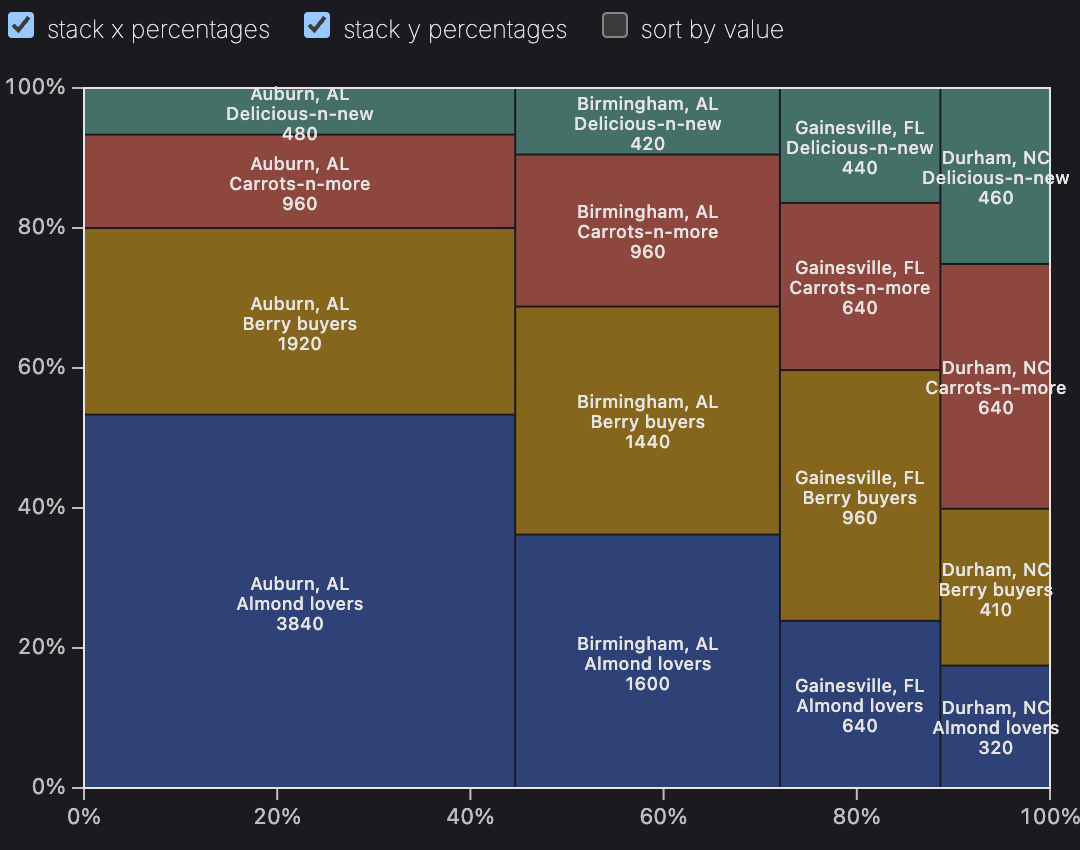
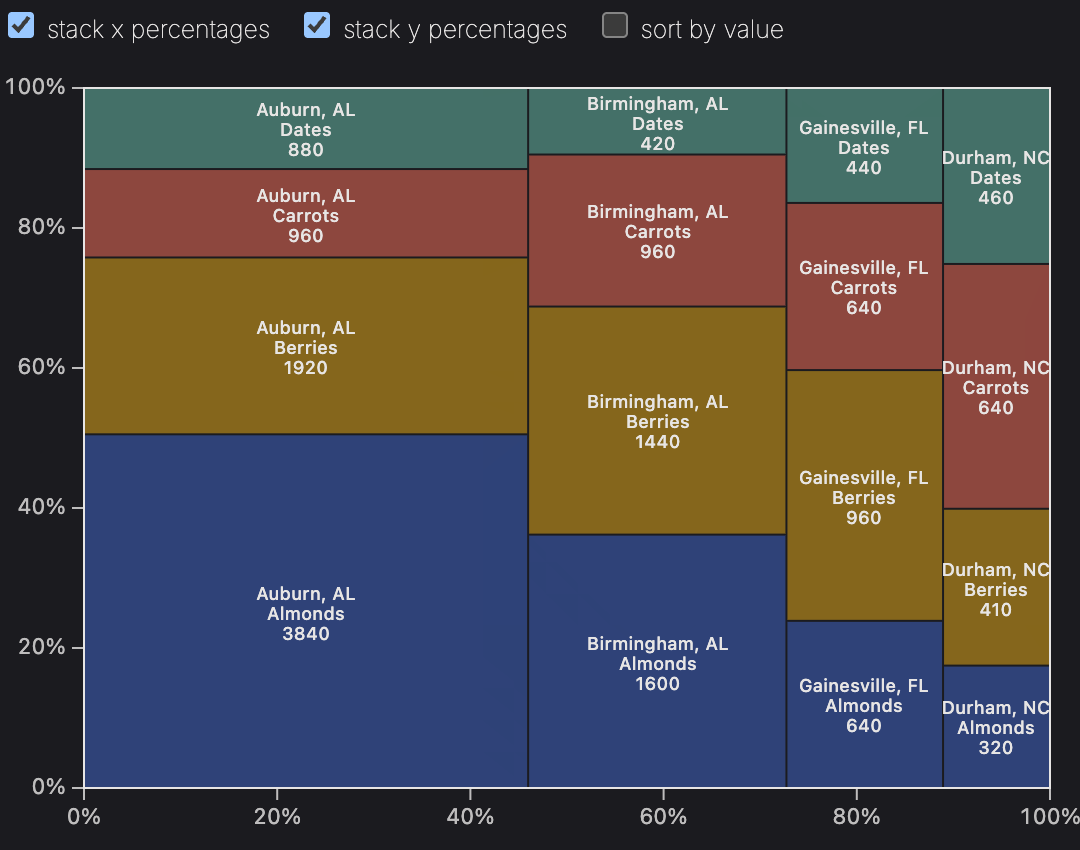
docs

diff --git a/src/routes/transforms/stack/+page.ts b/src/routes/transforms/stack/+page.ts
@@ -3,6 +3,6 @@ import type { PageLoad } from './$types.js';
 
 export const load: PageLoad = async ({ fetch }) => {
     return {
-        data: await loadDatasets(['riaa', 'crimea', 'olympians'], fetch)
+        data: await loadDatasets(['riaa', 'crimea', 'olympians', 'sales'], fetch)
     };
 };

diff --git a/src/routes/transforms/stack/+page.md b/src/routes/transforms/stack/+page.md
@@ -160,3 +160,95 @@ Replaces **x** with **x1** and **x2** for horizontal→ stacks grouped on **y**
 ## stackY
 
 Replaces **y** with **y1** and **y2** to form vertical↑ stacks grouped on **x**.
+
+## stackMarimekko
+
+A marimekko chart is a stacked bar chart where the width of each bar is proportional to its total value. The `stackMarimekko` transform computes both the horizontal stacking (x1, x2) and vertical stacking (y1, y2).
+
+```js
+stackMarimekko(
+    {
+        data: sales,
+        x: 'market',
+        y: 'segment',
+        value: 'value'
+    },
+    {
+        x: { percent: true },
+        y: { percent: false }
+    }
+);
+```
+
+```svelte live
+<script lang="ts">
+    import {
+        Plot,
+        Rect,
+        Text,
+        stackMarimekko
+    } from 'svelteplot';
+    import { Checkbox } from '$lib/ui';
+    import { page } from '$app/state';
+    import type { ExamplesData } from '../types';
+
+    const { sales } = $derived(
+        page.data.data
+    ) as ExamplesData;
+
+    let xPercent = $state(true);
+    let yPercent = $state(true);
+    let sortValue = $state(false);
+
+    const stacked = $derived(
+        stackMarimekko(
+            {
+                data: sales,
+                x: 'market',
+                y: 'segment',
+                value: 'value',
+                ...(sortValue ? { sort: 'value' } : {})
+            },
+            {
+                x: { percent: xPercent },
+                y: { percent: yPercent }
+            }
+        )
+    );
+</script>
+
+<Checkbox
+    bind:value={xPercent}
+    label="stack x percentages" />
+<Checkbox
+    bind:value={yPercent}
+    label="stack y percentages" />
+<Checkbox bind:value={sortValue} label="sort by value" />
+
+<Plot
+    frame
+    x={{ percent: xPercent }}
+    y={{ percent: yPercent }}
+    marginTop={15}
+    marginRight={15}>
+    <Rect
+        {...stacked}
+        inset={0.5}
+        opacity={0.5}
+        fill="segment" />
+    <Text
+        {...stacked}
+        fontSize={9}
+        text={(d) =>
+            [d.market, d.segment, d.value].join('\n')} />
+</Plot>
+```
+
+Channels:
+
+- **data**: The input data array.
+- **x**: The name of the categorical variable to group by on the x-axis.
+- **y**: The name of the categorical variable to group by on the y-axis.
+- **value**: The name of the quantitative variable to use for the size of each segment.
+- **sort**: Optional. If 'value', sorts the x groups by total value descending.
+- **filter**: Optional. A function to filter the data before stacking.
